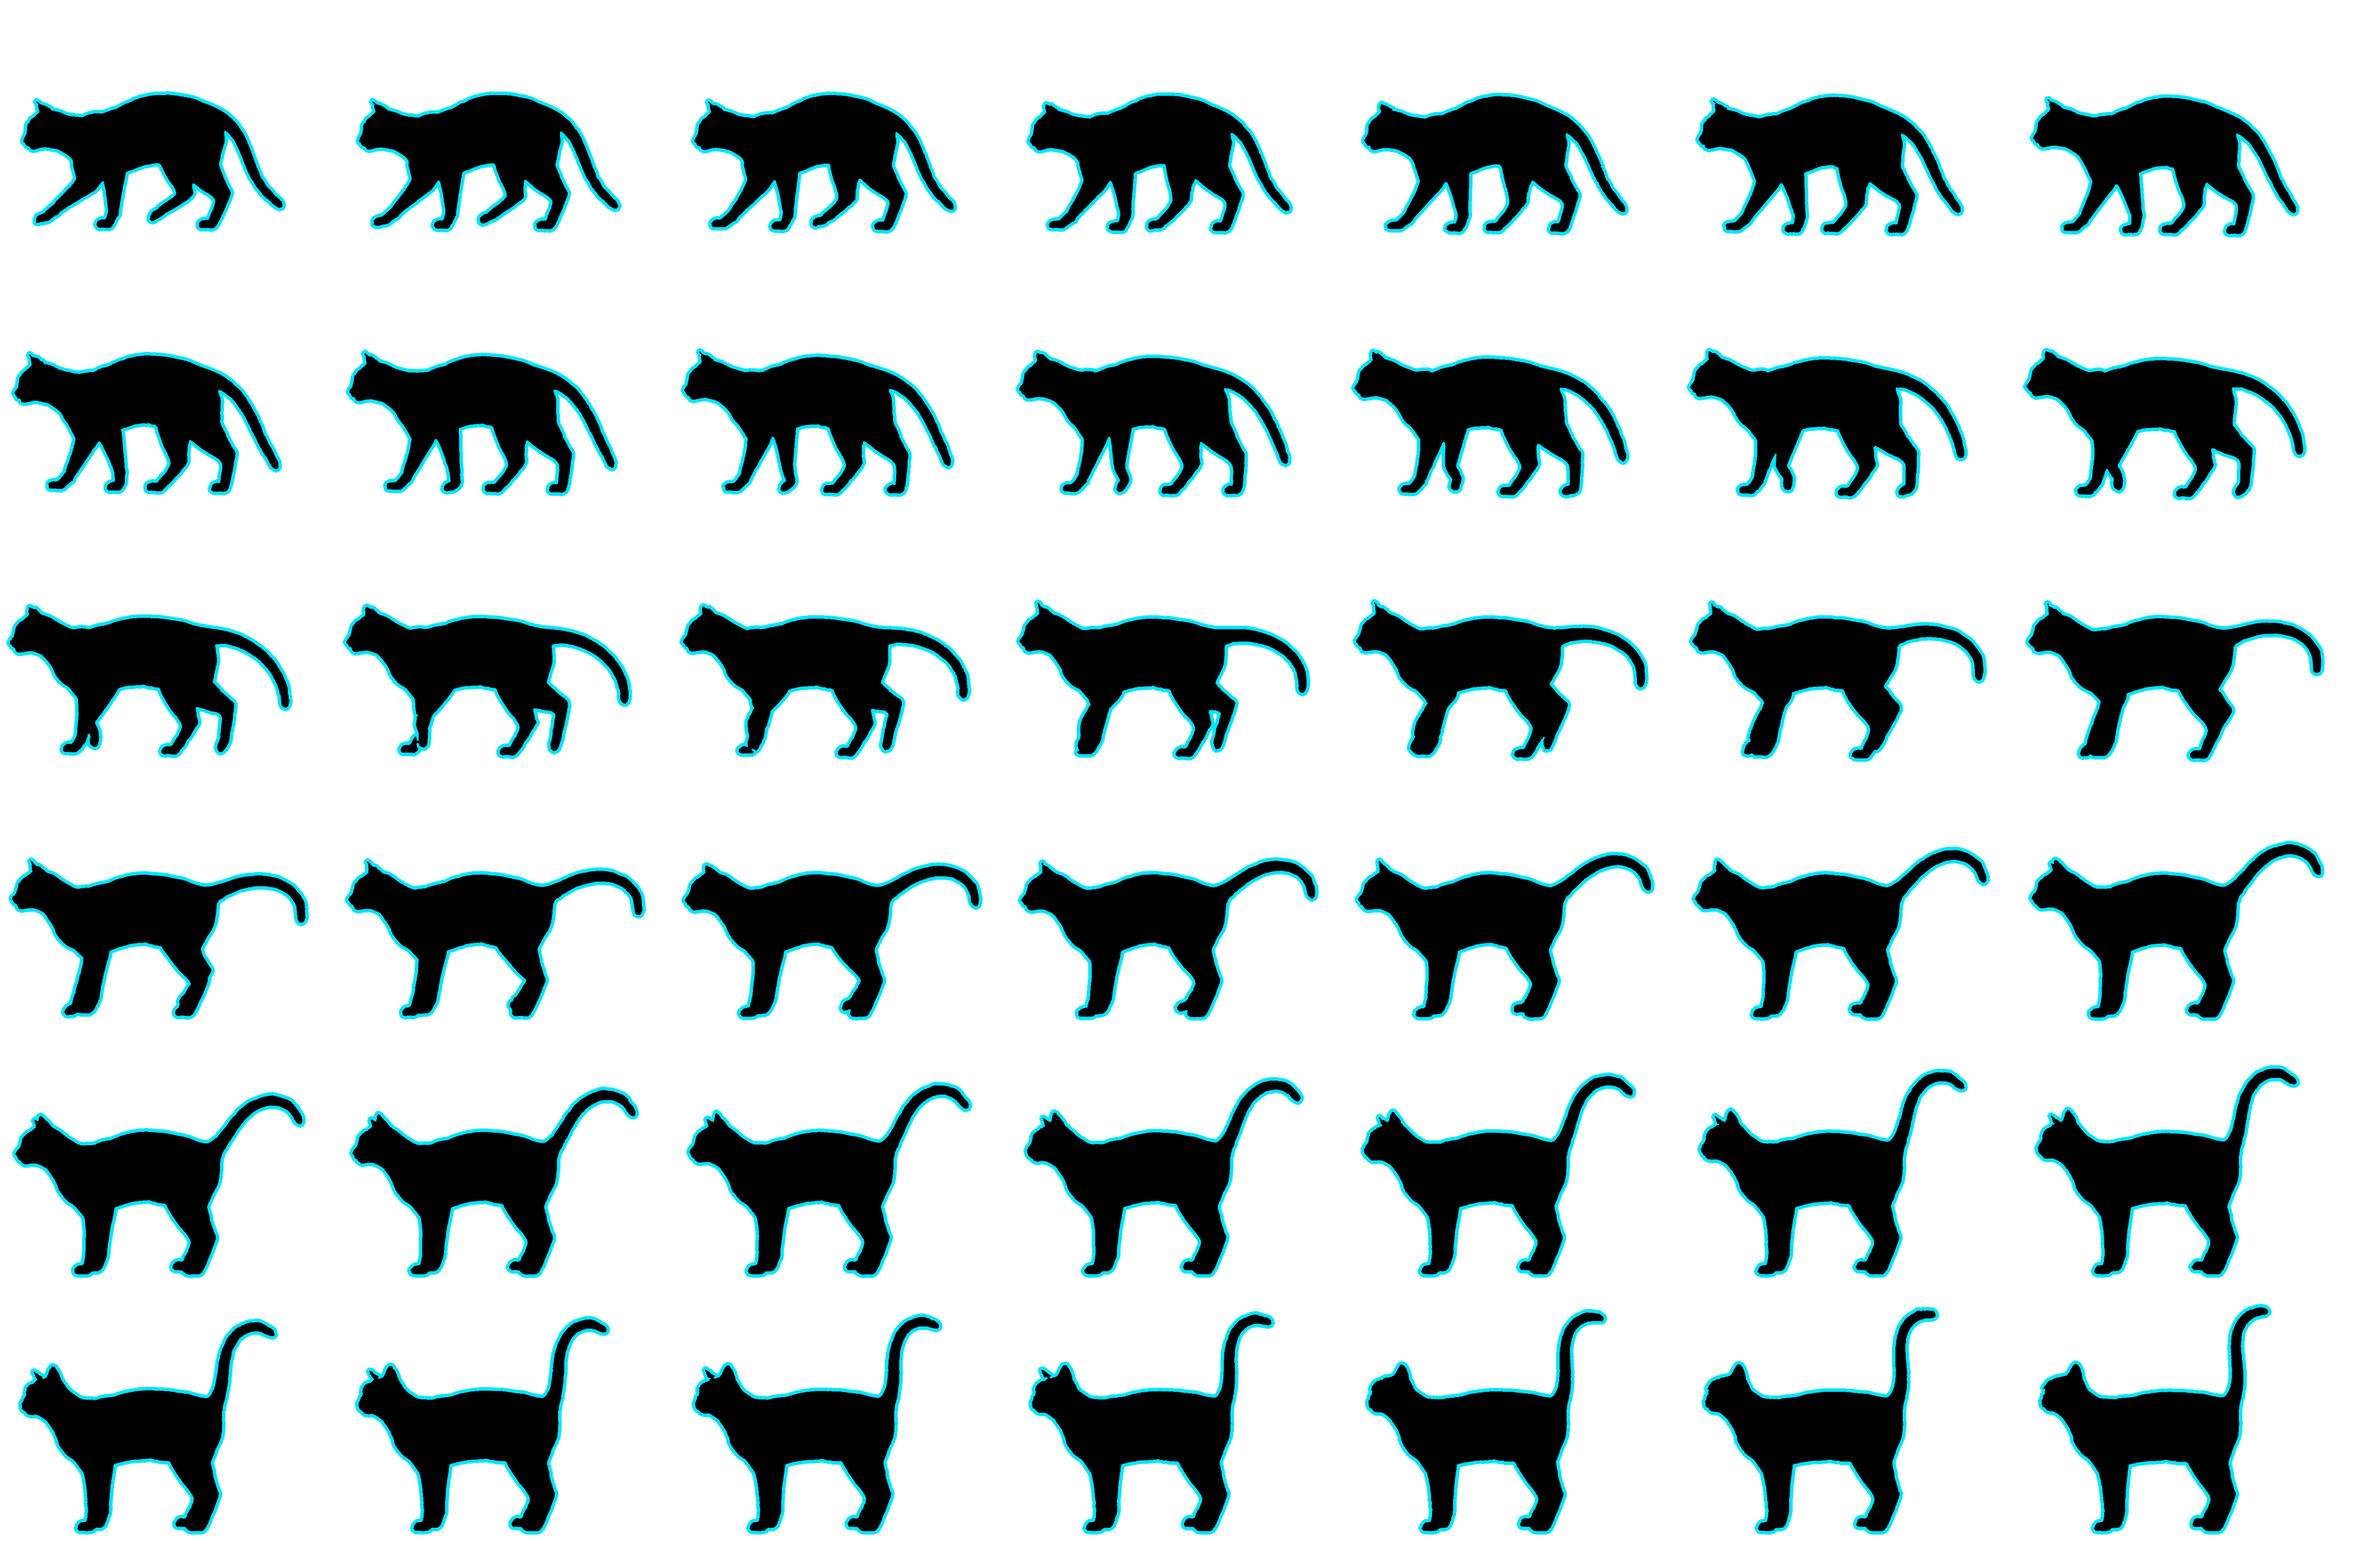
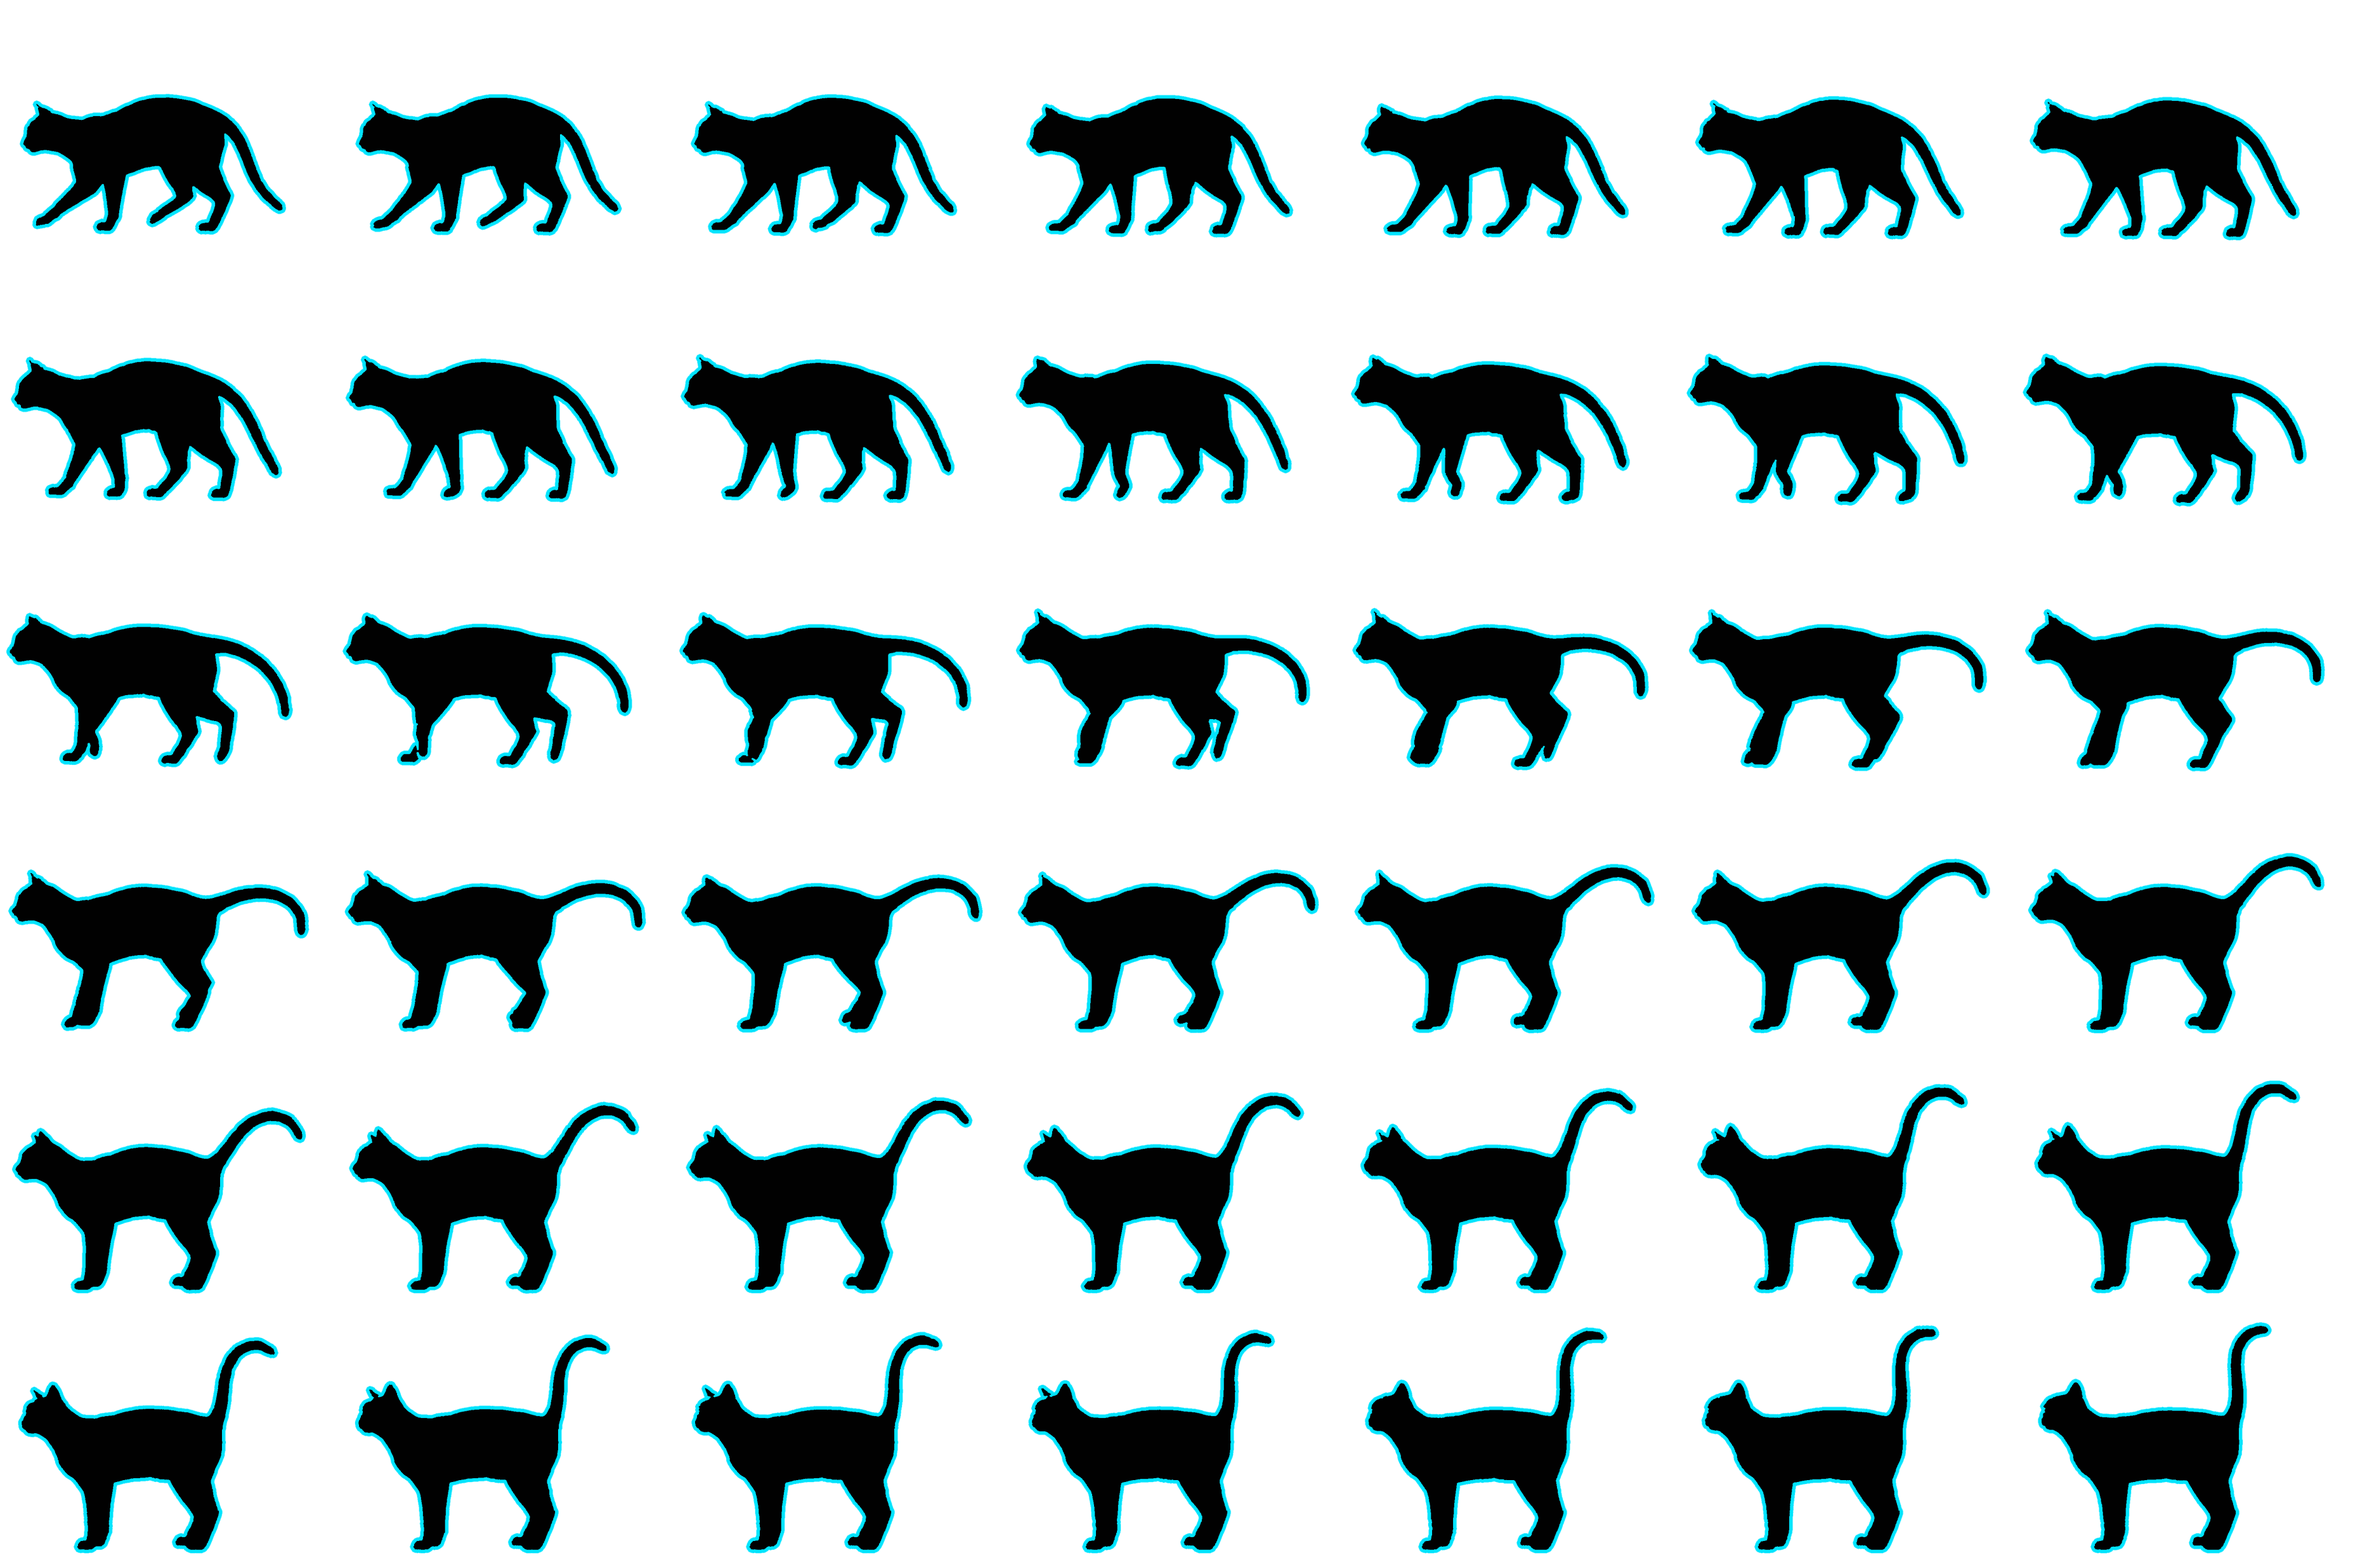
clock: roll clip exits with the video's own walk loop (no switch to the old loop), v33
Claude-Session: https://claude.ai/code/session_011dJr2cTpcATSR3bPd249g1

diff --git a/clock/big.html b/clock/big.html
@@ -142,10 +142,10 @@ canvas{display:block; position:absolute; inset:0}
   // 立ち止まる動き: 動画のコマ95(歩きのループの2番目と同じ姿勢)〜177(ループの12番目と同じ姿勢)。speed は各コマで進む距離(動画の画素)、stop は完全に止まるコマ
   const CALL = { n: 83, per: 42, cols: 7, cw: 476, ch: 362, scale: 0.6, pad: 8, ox: 323, oy: 89, loopIn: 2, loopOut: 12, stop: 31,
     speed: [11.55,11.55,11.76,11.97,11.97,11.76,11.55,10.92,10.29,9.66,9.45,9.24,9.03,8.61,7.77,6.93,5.67,4.62,4.41,4.62,4.41,4.62,4.62,3.99,3.57,3.15,2.73,2.52,2.1,1.68,1.26,0.84,0.42,0.21,0.0,0.0,0.0,0.0,0.0,0.0,0.0,0.0,0.0,0.0,0.0,0.0,0.0,0.0,0.0,0.0,0.0,0.0,0.21,0.42,1.05,1.68,2.52,3.15,3.99,4.41,5.25,5.88,6.72,7.35,7.98,7.98,8.19,8.61,9.45,10.08,11.34,12.18,12.6,12.81,13.23,13.44,13.86,14.49,14.91,15.12,15.12,15.12,14.91] };
-  // ごろん: 同じ動画の続き。立ち止まり、体を丸め、寝転がって転がり、起き上がって歩き出す(3本目の動画のコマ95〜450、356コマ。止まっている間は同じ絵を使い回す。cell[n] = n番目の動画コマに使う絵の番号)。24コマ/秒、9枚のシートに分けてある。
+  // ごろん: 同じ動画の続き。立ち止まり、体を丸め、寝転がって転がり、起き上がって歩き出す(3本目の動画のコマ95〜469、375コマ。止まっている間は同じ絵を使い回す。cell[n] = n番目の動画コマに使う絵の番号)。24コマ/秒、9枚のシートに分けてある。
   // 止まるまでの速さは CALL と同じ(同じ動画の前半)、止まっている間は0、最後は STEP まで加速して、歩きのループへ blend コマかけて溶かしてつなぐ
-  const ROLL = { n: 356, per: 42, cols: 7, cw: 530, ch: 405, scale: 0.6, pad: 8, ox: 285, oy: 30, loopOut: 13, stop: 31, blend: 6, joinDx: 38,
-    cell: [0,1,2,3,4,5,6,7,8,9,10,11,12,13,14,15,16,17,18,19,20,21,22,23,24,25,26,27,28,29,30,31,32,33,34,35,36,37,38,39,40,41,42,43,44,45,46,47,48,49,50,51,52,53,54,55,56,57,58,59,60,61,62,63,64,65,66,67,68,69,70,71,72,73,74,75,76,77,78,79,80,81,82,83,84,85,86,87,88,89,90,91,92,93,94,95,96,97,98,99,100,101,102,103,104,105,106,107,108,109,110,111,112,113,114,115,116,117,118,119,120,121,122,123,124,125,126,127,128,129,130,131,132,133,134,135,136,137,138,139,140,141,142,143,144,145,146,147,148,149,150,151,152,153,154,155,156,157,158,159,160,161,162,163,164,165,166,167,168,169,170,171,172,173,174,175,176,177,178,179,180,181,182,183,184,185,186,187,188,189,190,191,192,193,194,194,195,195,196,196,196,196,196,196,196,196,196,196,196,197,197,197,197,198,199,200,201,202,203,204,205,206,207,208,209,210,211,212,213,214,215,216,217,218,219,220,221,222,223,224,225,226,227,228,229,230,231,232,233,234,235,236,237,238,239,240,241,242,243,244,245,246,247,248,249,250,251,252,253,254,255,256,257,258,259,260,261,262,263,264,265,266,267,268,269,270,271,272,273,274,275,276,277,278,279,280,281,282,283,284,285,286,287,288,289,290,291,292,293,294,295,296,297,298,299,300,301,302,303,304,305,306,307,308,309,310,311,312,313,314,315,316,317,318,319,320,321,322,323,324,325,326,327,328,329,330,331,332,333,334,335,336,337,338,339,340] };
+  const ROLL = { n: 375, per: 42, cols: 7, cw: 530, ch: 410, scale: 0.6, pad: 8, ox: 285, oy: 23, stop: 31, exit: { a: 349, len: 25 },
+    cell: [0,1,2,3,4,5,6,7,8,9,10,11,12,13,14,15,16,17,18,19,20,21,22,23,24,25,26,27,28,29,30,31,32,33,34,35,36,37,38,39,40,41,42,43,44,45,46,47,48,49,50,51,52,53,54,55,56,57,58,59,60,61,62,63,64,65,66,67,68,69,70,71,72,73,74,75,76,77,78,79,80,81,82,83,84,85,86,87,88,89,90,91,92,93,94,95,96,97,98,99,100,101,102,103,104,105,106,107,108,109,110,111,112,113,114,115,116,117,118,119,120,121,122,123,124,125,126,127,128,129,130,131,132,133,134,135,136,137,138,139,140,141,142,143,144,145,146,147,148,149,150,151,152,153,154,155,156,157,158,159,160,161,162,163,164,165,166,167,168,169,170,171,172,173,174,175,176,177,178,179,180,181,182,183,184,185,186,187,188,189,190,191,192,193,194,194,195,195,196,196,196,196,196,196,196,196,196,196,196,197,197,197,197,198,199,200,201,202,203,204,205,206,207,208,209,210,211,212,213,214,215,216,217,218,219,220,221,222,223,224,225,226,227,228,229,230,231,232,233,234,235,236,237,238,239,240,241,242,243,244,245,246,247,248,249,250,251,252,253,254,255,256,257,258,259,260,261,262,263,264,265,266,267,268,269,270,271,272,273,274,275,276,277,278,279,280,281,282,283,284,285,286,287,288,289,290,291,292,293,294,295,296,297,298,299,300,301,302,303,304,305,306,307,308,309,310,311,312,313,314,315,316,317,318,319,320,321,322,323,324,325,326,327,328,329,330,331,332,333,334,335,336,337,338,339,340,341,342,343,344,345,346,347,348,349,350,351,352,353,354,355,356,357,358,359] };
   ROLL.speed = CALL.speed.slice(0, 35).concat(new Array(ROLL.n - 35).fill(0));   // 止まるまでは CALL と同じ減速(同じ動画の前半)
   for (let i = 0; i < 14; i++) ROLL.speed[ROLL.n - 14 + i] = STEP * (i + 1) / 14;
   [CALL, ROLL].forEach(c => { c.cum = [0]; c.speed.forEach(v => c.cum.push(c.cum[c.cum.length - 1] + v)); });   // 先頭から、そのコマまでに進む距離
@@ -207,7 +207,8 @@ canvas{display:block; position:absolute; inset:0}
           if (K.blend && n >= K.n - K.blend) { const b = n - (K.n - K.blend); ba = (b + 1) / (K.blend + 1); blendLoop = ((K.loopOut + 1 - (K.blend - b)) % WALK.n + WALK.n) % WALK.n; }   // 最後の数コマは、歩きのループへ溶かす
         } else {                                                                                    // 3) そのまま歩いて出ていく
           const e2 = el - tw - tc;
-          cx = xcs + dir * (K.cum[K.n] * kv + v0 * e2); f = (K.loopOut + 1 + Math.floor(e2 * FPS)) % WALK.n; dj = K.joinDx || 0;   // 歩きのループは、動画の猫と位置が少しずれているので、その分ずらして描く
+          cx = xcs + dir * (K.cum[K.n] * kv + v0 * e2); f = (K.loopOut + 1 + Math.floor(e2 * FPS)) % WALK.n; dj = K.joinDx || 0;
+          if (K.exit) { const k = K.cell[K.exit.a + (1 + Math.floor(e2 * FPS)) % K.exit.len]; spec = K; img = sheets.roll[Math.floor(k / K.per)]; f = k % K.per; dj = 0; }   // ごろんは、動画の最後の歩き(25コマ)をそのままループして出ていく
           if (dir > 0 ? cx - dwW / 2 > W : cx + dwW / 2 < 0) { endCat(); return; }
         }
       }

diff --git a/clock/sw.js b/clock/sw.js
@@ -1,4 +1,4 @@
-const CACHE = 'clock-v32';
+const CACHE = 'clock-v33';
 const FILES = ['./', './index.html', './big.html', './cat-walk.png', './cat-call1.png', './cat-call2.png', './roll1.png', './roll2.png', './roll3.png', './roll4.png', './roll5.png', './roll6.png', './roll7.png', './roll8.png', './roll9.png', './manifest.webmanifest', './icon-180.png', './icon-192.png', './icon-512.png', './icon-maskable-512.png'];
 const FONT_HOSTS = ['fonts.googleapis.com', 'fonts.gstatic.com'];
 // 更新のとき、ブラウザが持っている古いコピーを使わず、必ずサーバーから取り直す

diff --git a/clock/index.html b/clock/index.html
@@ -296,7 +296,7 @@ dialog.dlg .times{flex-wrap:wrap}
       </section>
     </div>
     <button class="btn primary" value="close">とじる</button>
-    <p class="ver">バージョン 32</p>
+    <p class="ver">バージョン 33</p>
   </form>
 </dialog>
 </div>
